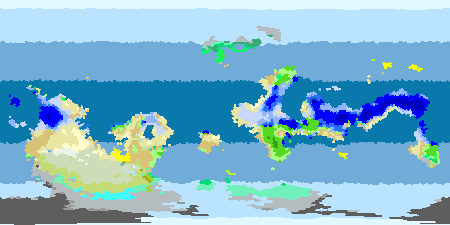
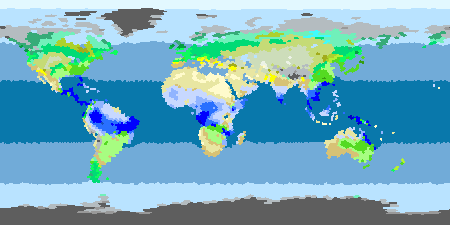
fixes to memoization, added keybinds for minor worldedit, tweaked climate

diff --git a/planet/src/main/kotlin/dev/biserman/planet/planet/Planet.kt b/planet/src/main/kotlin/dev/biserman/planet/planet/Planet.kt
@@ -4,9 +4,9 @@ import com.fasterxml.jackson.annotation.JsonIdentityInfo
 import com.fasterxml.jackson.annotation.JsonIgnore
 import com.fasterxml.jackson.annotation.ObjectIdGenerators
 import dev.biserman.planet.geometry.*
+import dev.biserman.planet.gui.Gui
 import dev.biserman.planet.planet.climate.ClimateDatum
 import dev.biserman.planet.planet.climate.OceanCurrent
-import dev.biserman.planet.planet.WorldKinds
 import dev.biserman.planet.planet.tectonics.ConvergenceZone
 import dev.biserman.planet.planet.tectonics.DivergenceZone
 import dev.biserman.planet.planet.tectonics.TectonicPlate
@@ -14,12 +14,10 @@ import dev.biserman.planet.planet.tectonics.Tectonics
 import dev.biserman.planet.topology.Tile
 import dev.biserman.planet.topology.Topology
 import dev.biserman.planet.topology.toTopology
-import dev.biserman.planet.utils.Path
 import dev.biserman.planet.utils.UtilityExtensions.contains
 import dev.biserman.planet.utils.memo
 import kotlin.random.Random
 import dev.biserman.planet.utils.VectorWarpNoise
-import dev.biserman.planet.utils.floodFill
 import dev.biserman.planet.utils.floodFillPartitionForest
 import kotlin.collections.average
 
@@ -41,7 +39,7 @@ class Planet(val seed: Int, val size: Int) {
     var planetTiles = topology.tiles.associate { tile -> tile.id to PlanetTile(this, tile.id) }
 
     @get:JsonIgnore
-    val contiguousRegions by memo({ tectonicAge }) {
+    val contiguousRegions by memo({ terrainChangeCount }) {
         PlanetRegion(
             this,
             planetTiles.values.toMutableSet()
@@ -49,12 +47,12 @@ class Planet(val seed: Int, val size: Int) {
     }
 
     @get:JsonIgnore
-    val edgeDepthMap by memo({ tectonicAge }) {
+    val edgeDepthMap by memo({ terrainChangeCount }) {
         PlanetRegion(this, planetTiles.values.toMutableSet()).calculateEdgeDepthMap { it.isAboveWater }
     }
 
     @get:JsonIgnore
-    val riverBasinMap by memo({ tectonicAge }) {
+    val riverBasinMap by memo({ terrainChangeCount }) {
         val pointElevations = planetTiles.values.flatMap { it.tile.corners }
             .distinctBy { it.position }
             .associateWith { it.tiles.map { tile -> getTile(tile).elevation }.average() }
@@ -83,7 +81,7 @@ class Planet(val seed: Int, val size: Int) {
     }
 
     @get:JsonIgnore
-    val continentialityMap by memo({ tectonicAge }) {
+    val continentialityMap by memo({ terrainChangeCount }) {
         val tilesToFlip = contiguousRegions
             .filter { region -> region.tiles.maxOf { it.edgeDepth } < 1 }
             .flatMap { it.tiles }
@@ -127,11 +125,11 @@ class Planet(val seed: Int, val size: Int) {
         }
     }
 
-    val pointNemo by memo({ tectonicAge }) {
+    val pointNemo by memo({ terrainChangeCount }) {
         planetTiles.values.minBy { it.continentiality }
     }
 
-    val waterCoverage by memo({ tectonicAge }) {
+    val waterCoverage by memo({ terrainChangeCount }) {
         1.0 - planetTiles.values.filter { it.isAboveWater }.size / planetTiles.size.toDouble()
     }
 
@@ -149,12 +147,18 @@ class Planet(val seed: Int, val size: Int) {
     var oceanCurrents: MutableMap<Int, OceanCurrent> = mutableMapOf()
 
     var tectonicAge = 0
+        set(value) {
+            field = value
+            Gui.instance.tectonicAgeLabel.setText("$tectonicAge My")
+        }
+
     var daysPassed = 0
     var nextPlateId = 0
 
     var seaLevel: Double = 0.0
 
     val radiusMeters = 6378137.0
+    var terrainChangeCount: ULong = 0uL
 
     val oldestCrust by memo({ tectonicAge }) { planetTiles.values.minOf { it.formationTime } }
     val youngestCrust by memo({ tectonicAge }) { planetTiles.values.maxOf { it.formationTime } }

diff --git a/planet/src/main/kotlin/dev/biserman/planet/CameraGimbal.kt b/planet/src/main/kotlin/dev/biserman/planet/CameraGimbal.kt
@@ -3,6 +3,8 @@ package dev.biserman.planet
 import dev.biserman.planet.geometry.intersectRaySphere
 import dev.biserman.planet.geometry.toPoint
 import dev.biserman.planet.gui.Gui
+import dev.biserman.planet.planet.PlanetTile
+import dev.biserman.planet.topology.Tile
 import godot.annotation.Export
 import godot.annotation.RegisterClass
 import godot.annotation.RegisterFunction
@@ -13,13 +15,10 @@ import godot.core.Vector2
 import godot.core.Vector3
 import godot.global.GD
 import kotlin.math.PI
+import kotlin.times
 
 @RegisterClass
 class CameraGimbal : Node3D() {
-	@Export
-	@RegisterProperty
-	var target = Vector3.ZERO
-
 	@Export
 	@RegisterProperty
 	var rotationSpeed = PI.toFloat() / 3
@@ -50,6 +49,27 @@ class CameraGimbal : Node3D() {
 	val camera by lazy { innerGimbal.findChild("Camera3D") as Camera3D }
 
 	var clickStartPosition: Vector2? = null
+
+	val hoveredPoint
+		get(): Vector3? {
+			val viewport = getViewport()!!
+			val origin = camera.projectRayOrigin(viewport.getMousePosition())
+			val normal = camera.projectRayNormal(viewport.getMousePosition())
+
+			val t = intersectRaySphere(origin, normal, Vector3.ZERO, 1.0)
+			return if (t == null) null
+			else origin + normal * t
+		}
+
+	val hoveredTile
+		get(): Tile? {
+			val hitPoint = hoveredPoint ?: return null
+			val planet = Main.instance.planet
+			return planet.topology.rTree
+				.nearest(hitPoint.toPoint(), planet.topology.averageRadius * 2, 1)
+				.first()
+				.value()
+		}
 
 	@RegisterFunction
 	override fun _unhandledInput(event: InputEvent?) {
@@ -85,23 +105,7 @@ class CameraGimbal : Node3D() {
 			clickStart != null &&
 			event.position.distanceTo(clickStart) == 0.0
 		) {
-			val origin = camera.projectRayOrigin(event.position)
-			val normal = camera.projectRayNormal(event.position)
-
-			val t = intersectRaySphere(origin, normal, Vector3.ZERO, 1.0)
-			if (t != null) {
-				val hitPoint = origin + normal * t
-				target = hitPoint
-				val planet = Main.instance.planet
-				val selectedTile =
-					planet.topology.rTree
-						.nearest(hitPoint.toPoint(), planet.topology.averageRadius * 2, 1)
-						.first()
-						.value()
-				Gui.instance.selectedTile = selectedTile
-			} else {
-				Gui.instance.selectedTile = null
-			}
+			Gui.instance.selectedTile = hoveredTile
 		}
 	}
 
@@ -125,7 +129,7 @@ class CameraGimbal : Node3D() {
 	override fun _process(delta: Double) {
 		handleKeyboardInput(delta)
 		scale = GD.lerp(scale, Vector3.ONE * zoom, zoomSpeed)
-		globalTransform.origin = target
+		globalTransform.origin = hoveredPoint ?: Vector3.ZERO
 		innerGimbal.setRotation(
 			Vector3(
 				GD.clamp(innerGimbal.rotation.x, -PI / 2, PI / 2),
@@ -133,5 +137,14 @@ class CameraGimbal : Node3D() {
 				innerGimbal.rotation.z
 			)
 		)
+	}
+
+	@RegisterFunction
+	override fun _ready() {
+		instance = this
+	}
+
+	companion object {
+		lateinit var instance: CameraGimbal
 	}
 }

diff --git a/planet/src/main/kotlin/dev/biserman/planet/planet/climate/ClimateSimulationGlobals.kt b/planet/src/main/kotlin/dev/biserman/planet/planet/climate/ClimateSimulationGlobals.kt
@@ -110,7 +110,7 @@ object ClimateSimulationGlobals {
     var minStartingMoisture = 0.05 // minimum starting moisture
     var maxStartingMoisture = 3.0 // maximum starting moisture
     var oceanMoistureInsolationExp = 3.0 // higher exp -> less ocean moisture & most seasonality
-    var oceanMoistureInsolationNowVsAnnualLerp = 0.7
+    var oceanMoistureInsolationNowVsAnnualLerp = 1.0
     var averageInsolationMoistureCutoff = 0.5
 
     // awful hack to help moisture propagate into continental interiors
@@ -121,13 +121,13 @@ object ClimateSimulationGlobals {
     var itczMoistureExp = 1.5 // higher exp -> less ITCZ effect & faster effect decay with distance
     var itczMoistureScalar = 1.5 // how much is moisture multiplied by directly under the ITCZ
 
-    var equatorMoistureEffectMaxContinentiality = 12.0 // maximum continentiality for equator moisture effect
+    var equatorMoistureEffectMaxContinentiality = 9.0 // maximum continentiality for equator moisture effect
     var equatorMoistureEffectScalar = 1.0 // maximum amount that equator can effect moisture
     var equatorMoistureEffectInsolationExp = 4.0 // higher exp -> lower moisture effect at equator & faster drop-off
     var equatorMoistureEffectMaxDistance = 2.0 // max distance that equatorial updraft effects moisture, in °latitude
 
     var ferrelMoistureEffectMaxContinentiality = 12.0 // maximum continentiality for ferrel moisture effect
-    var ferrelMoistureEffectScalar = 0.7 // exponential falloff rate for ferrel moisture effect
+    var ferrelMoistureEffectScalar = 1.5 // exponential falloff rate for ferrel moisture effect
     var ferrelMoistureEffectMax = 0.4 // maximum amount that ferrel cell updraft can effect moisture
     var ferrelMoistureEffectInsolationExp = 0.75 // higher exp -> lower ferrel moisture effect & faster drop-off
     var ferrelMoistureEffectMaxDistance = 15.0 // max distance that ferrel cell updraft effects moisture

diff --git a/planet/src/main/kotlin/dev/biserman/planet/planet/PlanetTile.kt b/planet/src/main/kotlin/dev/biserman/planet/planet/PlanetTile.kt
@@ -59,8 +59,8 @@ class PlanetTile(
     val temperature get() = averageTemperature
     var moisture = 0.0
     var elevation = -100000.0 // set it really low to make errors easier to see
-    val airPressure by memo({ planet.tectonicAge }, { planet.daysPassed }) { calculateAirPressure() }
-    val prevailingWind by memo({ planet.tectonicAge }, { planet.daysPassed }) { calculatePrevailingWind() }
+    val airPressure by memo({ planet.terrainChangeCount }, { planet.daysPassed }) { calculateAirPressure() }
+    val prevailingWind by memo({ planet.terrainChangeCount }, { planet.daysPassed }) { calculatePrevailingWind() }
 
     val isIceCap
         get() = elevation >= (1 - tile.position.y.absoluteValue).pow(0.5) * 6500 ||
@@ -129,20 +129,20 @@ class PlanetTile(
     val isAboveWater get() = elevation > planet.seaLevel
 
     @get:JsonIgnore
-    val contiguousSlope by memo({ planet.tectonicAge }) {
+    val contiguousSlope by memo({ planet.terrainChangeCount }) {
         sqrt(neighbors.filter { it.isAboveWater == isAboveWater }.map { (it.elevation - elevation).pow(2) }.average())
     }
 
     @get:JsonIgnore
-    val nonContiguousSlope by memo({ planet.tectonicAge }) {
+    val nonContiguousSlope by memo({ planet.terrainChangeCount }) {
         sqrt(neighbors.filter { it.isAboveWater != isAboveWater }.map { (it.elevation - elevation).pow(2) }.average())
     }
 
     @get:JsonIgnore
-    val slope by memo({ planet.tectonicAge }) { sqrt(neighbors.map { (it.elevation - elevation).pow(2) }.average()) }
+    val slope by memo({ planet.terrainChangeCount }) { sqrt(neighbors.map { (it.elevation - elevation).pow(2) }.average()) }
 
     @get:JsonIgnore
-    val prominence by memo({ planet.tectonicAge }) {
+    val prominence by memo({ planet.terrainChangeCount }) {
         val computed =
             sqrt(
                 neighbors

diff --git a/planet/src/main/kotlin/dev/biserman/planet/Main.kt b/planet/src/main/kotlin/dev/biserman/planet/Main.kt
@@ -19,6 +19,8 @@ class Main : Node() {
 	lateinit var planet: Planet private set
 	lateinit var planetRenderer: PlanetRenderer
 
+	var copyElevation: Double? = 0.0
+
 	@RegisterFunction
 	override fun _ready() {
 		instance = this
@@ -41,18 +43,34 @@ class Main : Node() {
 
 		if (Input.isActionJustPressed("next")) {
 			Tectonics.stepTectonicsSimulation(planet)
+			planet.terrainChangeCount++
 			planetRenderer.update(planet)
 		}
 
-		if (Input.isActionJustPressed("erode")) {
-			Tectonics.performErosion(planet)
+		val selectedTile = planet.planetTiles[Gui.instance.selectedTile?.id] ?: return
+		if (Input.isActionJustPressed("place_land")) {
+			selectedTile.elevation = 1.0
+			planet.terrainChangeCount++
 			planetRenderer.update(planet)
 		}
 
-//        if (Input.isActionJustPressed("play")) {
-//            timerActive = !timerActive
-//            timerTime = 0.33
-//        }
+		if (Input.isActionJustPressed("place_ocean")) {
+			selectedTile.elevation = -1.0
+			planet.terrainChangeCount++
+			planetRenderer.update(planet)
+		}
+
+		if (Input.isActionJustPressed("paste")) {
+			if (copyElevation != null) {
+				selectedTile.elevation = copyElevation!!
+				planet.terrainChangeCount++
+				planetRenderer.update(planet)
+			}
+		}
+
+		if (Input.isActionJustPressed("copy")) {
+			copyElevation = selectedTile.elevation
+		}
 	}
 
 	val timerStep = 0.1

diff --git a/planet/src/main/kotlin/dev/biserman/planet/planet/climate/ClimateSimulation.kt b/planet/src/main/kotlin/dev/biserman/planet/planet/climate/ClimateSimulation.kt
@@ -295,6 +295,7 @@ object ClimateSimulation {
             }
             ((equatorEffect + ferrelEffect + oceanEffect) * startingMoistureMultiplier).coerceIn(minStartingMoisture..maxStartingMoisture)
         }
+        val startingMoisureSum = currentMoisture.values.sum()
         val finalMoisture = planet.planetTiles.values.associateWith { 0.0 }.toMutableMap()
 
         var steps = 0
@@ -353,7 +354,7 @@ object ClimateSimulation {
                 .map { neighbor -> finalMoisture[neighbor] ?: 0.0 }
                 .average()
         }
-        GD.print("Finished moisture simulation in $steps/$maxMoistureSteps steps. Remaining moisture: ${currentMoisture.values.sum()}")
+        GD.print("Finished moisture simulation in $steps/$maxMoistureSteps steps. Remaining moisture: ${currentMoisture.values.sum()} / $startingMoisureSum")
     }
 
     val (PlanetTile).averageTemperature: Double

diff --git a/planet/src/main/kotlin/dev/biserman/planet/gui/Gui.kt b/planet/src/main/kotlin/dev/biserman/planet/gui/Gui.kt
@@ -193,7 +193,8 @@ class Gui() : Node() {
                     value.r8.toDouble().adjustRange(threshold..255.0, 1.0..6400.0)
                 }
             }
-            Main.instance.planet.tectonicAge = min(-1, Main.instance.planet.tectonicAge - 1)
+            Main.instance.planet.tectonicAge = 0
+            Main.instance.planet.terrainChangeCount++
             OceanCurrents.viaEarthlikeHeuristic(Main.instance.planet, 7)
             Main.instance.planetRenderer.update(Main.instance.planet)
         }

diff --git a/planet/src/main/kotlin/dev/biserman/planet/planet/tectonics/Tectonics.kt b/planet/src/main/kotlin/dev/biserman/planet/planet/tectonics/Tectonics.kt
@@ -474,9 +474,9 @@ object Tectonics {
                 performErosionTime +
                 runGuardrailsTime
 
-        planet.tectonicAge += 1
+        planet.tectonicAge++
+        planet.terrainChangeCount++
 
-        Gui.instance.tectonicAgeLabel.setText("${planet.tectonicAge} My")
         Gui.instance.updateInfobox()
         Gui.instance.statsGraph.update(planet)
 
